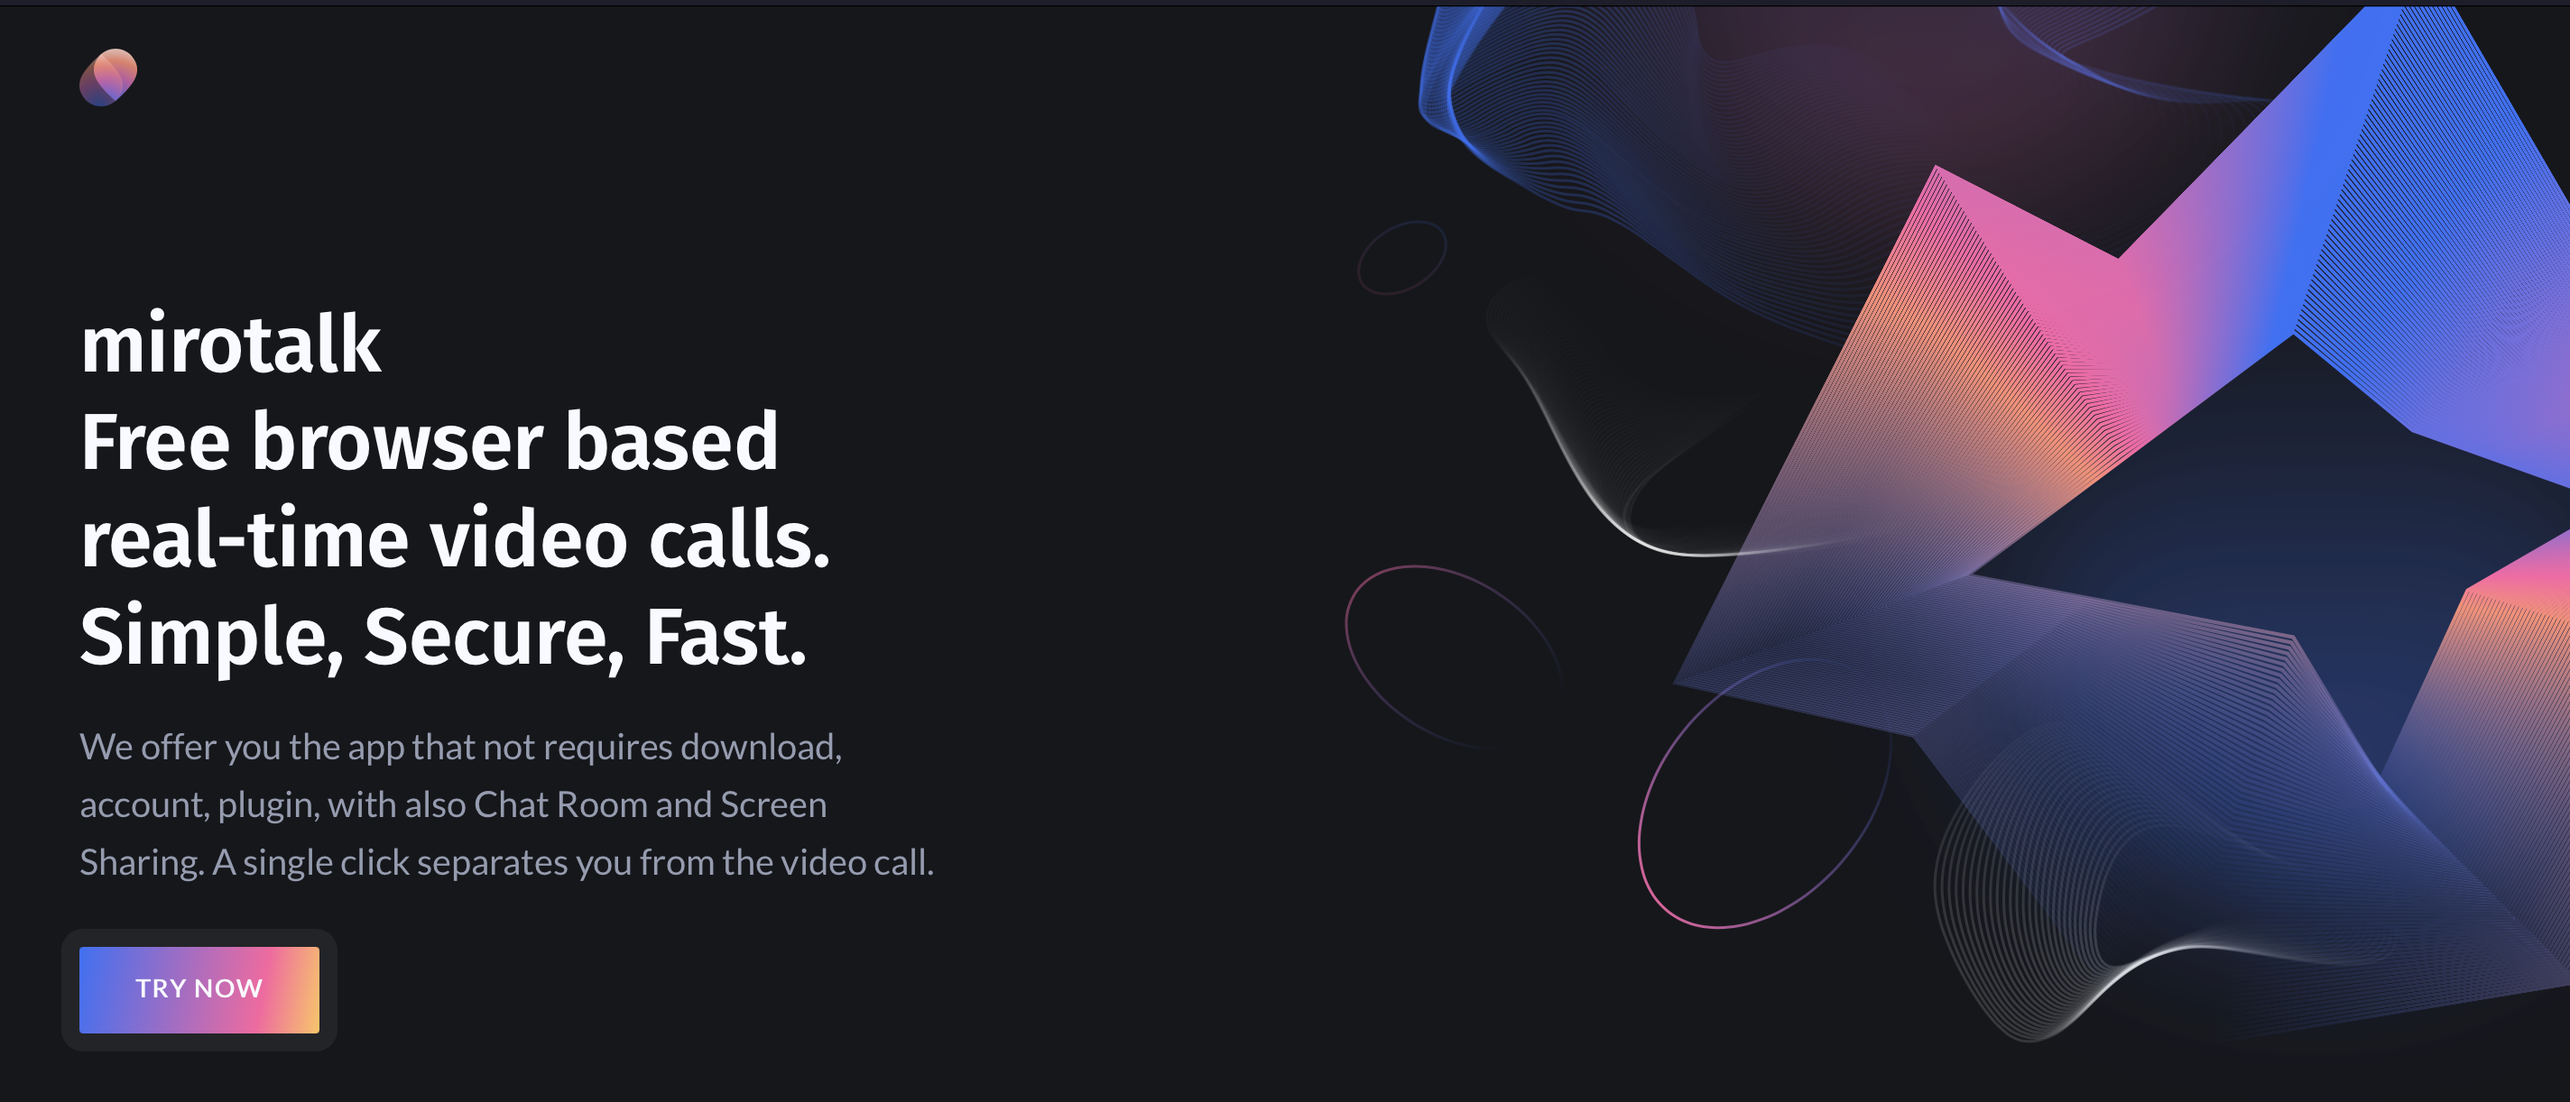
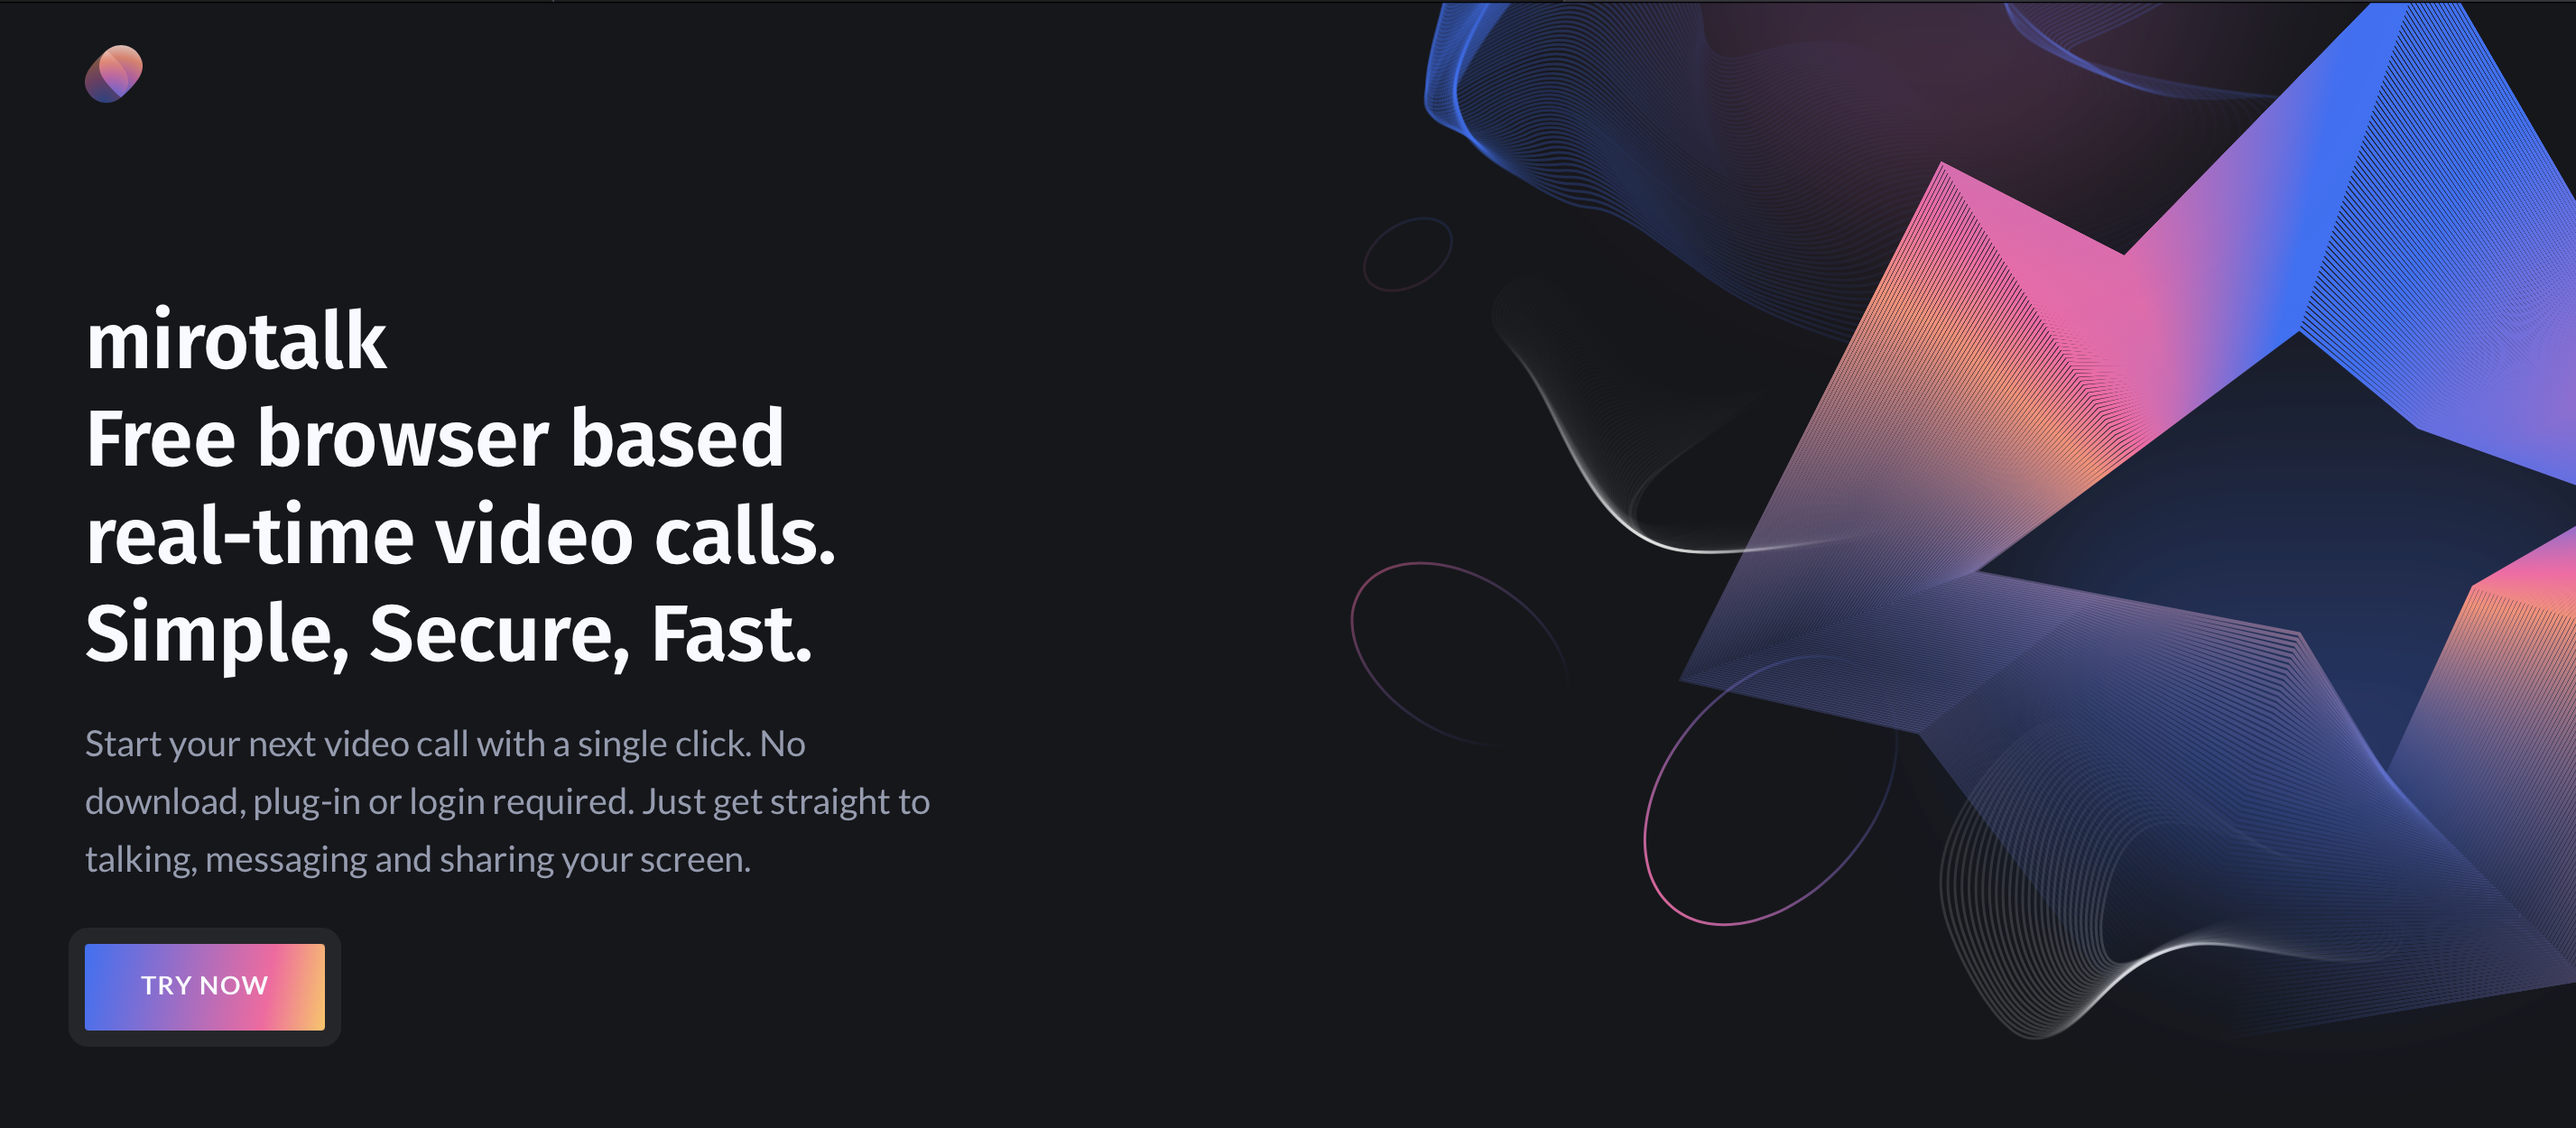
[mirotalk] - fix typo

diff --git a/www/landing.html b/www/landing.html
@@ -79,9 +79,9 @@
                       class="mt-0 mb-32 reveal-from-bottom"
                       data-reveal-delay="300"
                     >
-                      We offer you the app that not requires download, account,
-                      plugin, with also Chat Room and Screen Sharing. A single
-                      click separates you from the video call.
+                      Start your next video call with a single click. No
+                      download, plug-in or login required. Just get straight to
+                      talking, messaging and sharing your screen.
                     </p>
                     <div class="reveal-from-bottom" data-reveal-delay="450">
                       <a
